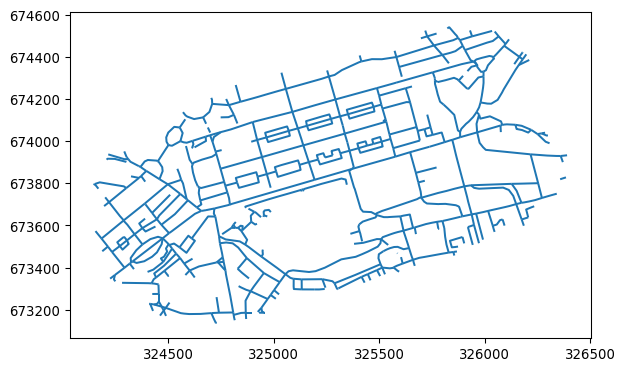
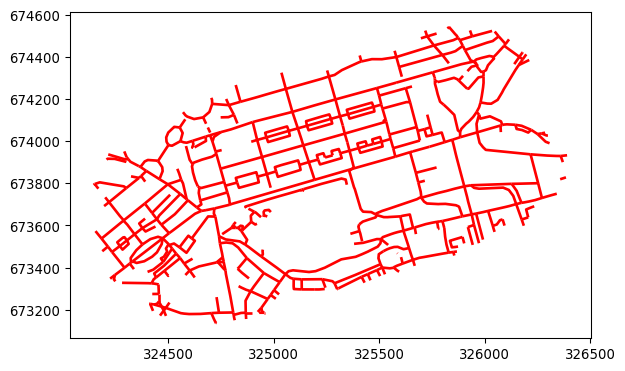
Reproduce buffer-aggregate outputs

Changed region(s): [[0.152, 0.0593, 0.912, 0.8598], [0.8512, 0.3558, 0.8816, 0.3854], [0.152, 0.5337, 0.1824, 0.5633]]

diff --git a/buffer-aggregate.md b/buffer-aggregate.md
@@ -682,11 +682,8 @@ input_detailed_buffer.crs = input_detailed.crs
 # the intersection of the simple network with the detailed buffered network:
 input_intersection = gpd.overlay(input_simple, input_detailed_buffer, how='intersection')
 # Plot both input and output networks with values represented by colour:
-# Todo: add colour/width to the lines
-# input_detailed.plot(line_width=input_detailed['value']/1000);
-# input.simple.plot(line_width=input_simple['value']/1000);
-input_detailed.plot();
-input_intersection.plot();
+input_detailed.plot(linewidth=input_detailed['commute_fastest_bicycle_go_dutch']/1000, cmap='Blues', legend=True);
+input_intersection.plot(color='red', linewidth=2);
 ```
 
 ![](buffer-aggregate_files/figure-commonmark/cell-6-output-1.png)
